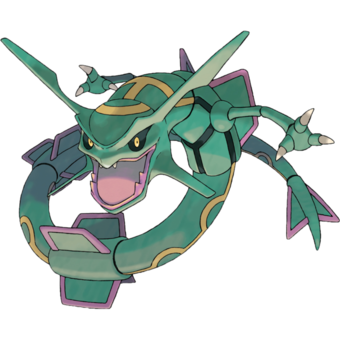
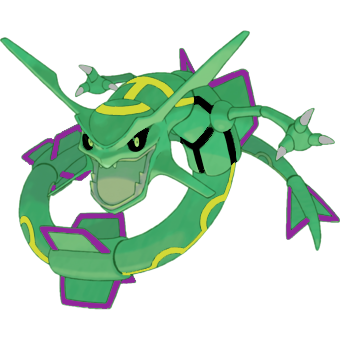
Green Team Done

diff --git a/index.html b/index.html
@@ -238,7 +238,9 @@
             <img src="green/alienthing.png" draggable="true" ondragstart="drag(event)"id="drag7" width="30" height="30">
           </div>
           
-          <div id="div100" ondrop="end(event)" ondragover="drop(event)"></div>
+          <div id="div100" ondrop="end(event)" ondragover="drop(event)">
+            <img src="green/Rayquaza.png" draggable="true" ondragstart="drag(event)"id="drag8" width="30" height="30">
+          </div>
 
           <!--Red Characters-->
           <div id="div101" ondrop="end(event)" ondragover="drop(event)">
@@ -1405,7 +1407,7 @@
             top:400px;
             left:585px;
         }
-
+ 
         #div87 {
           float: left;
           width: 24px;
